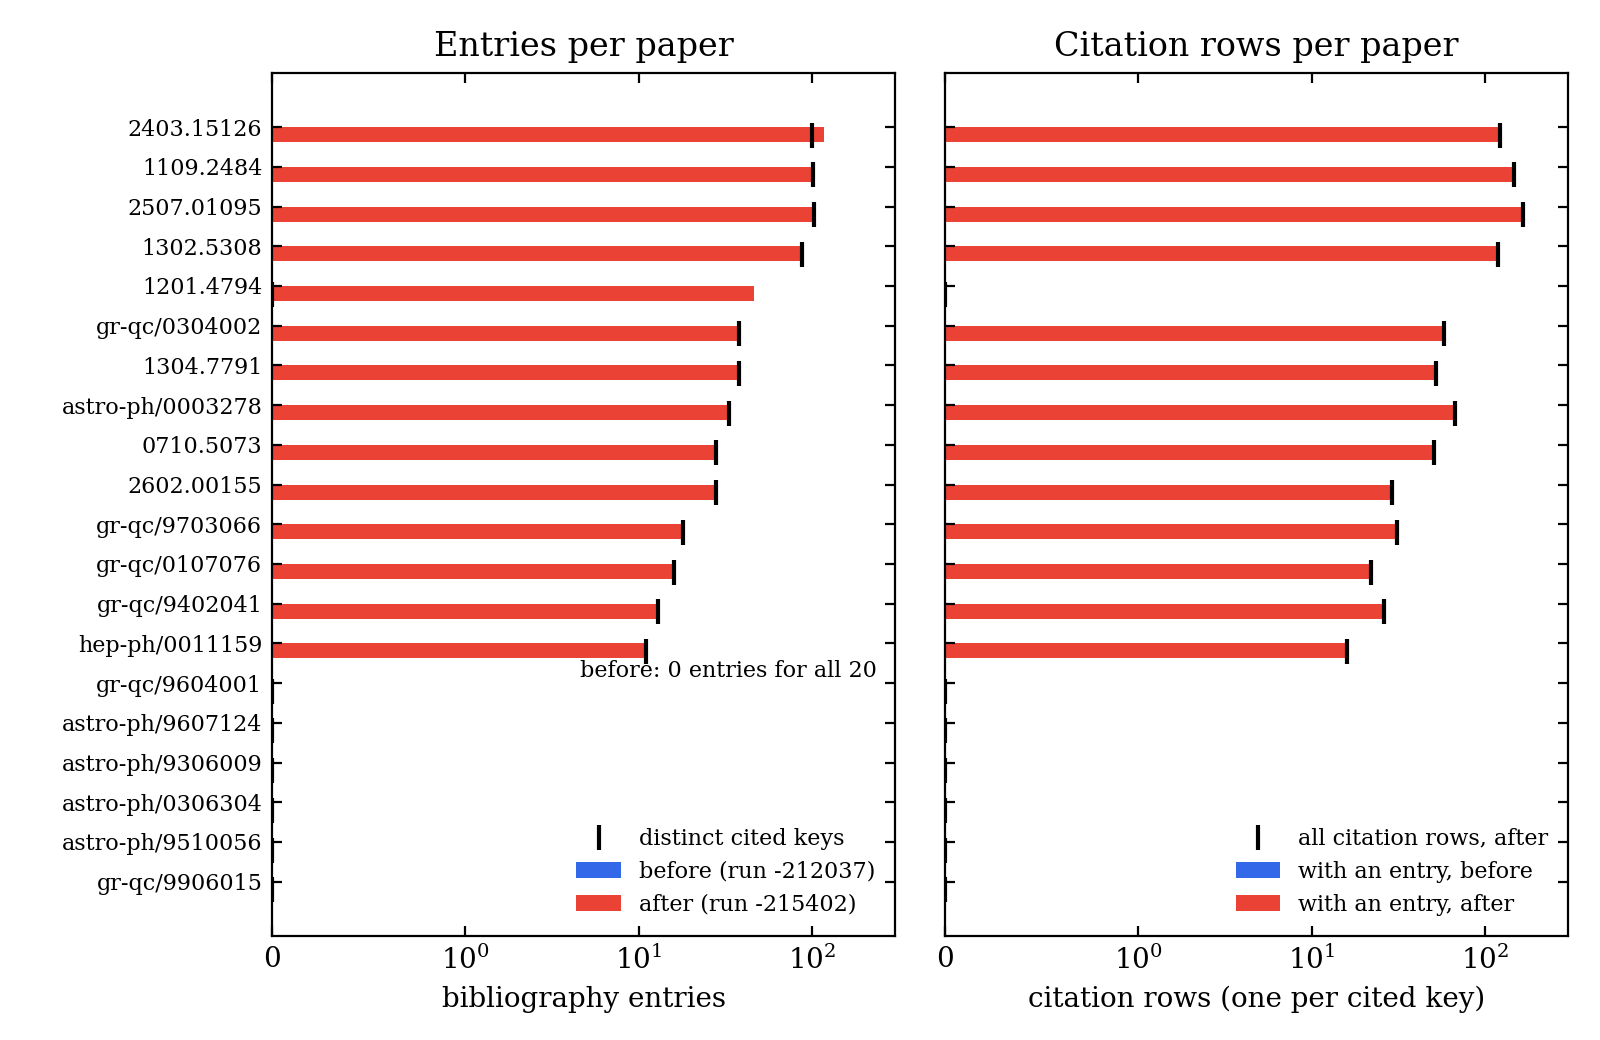
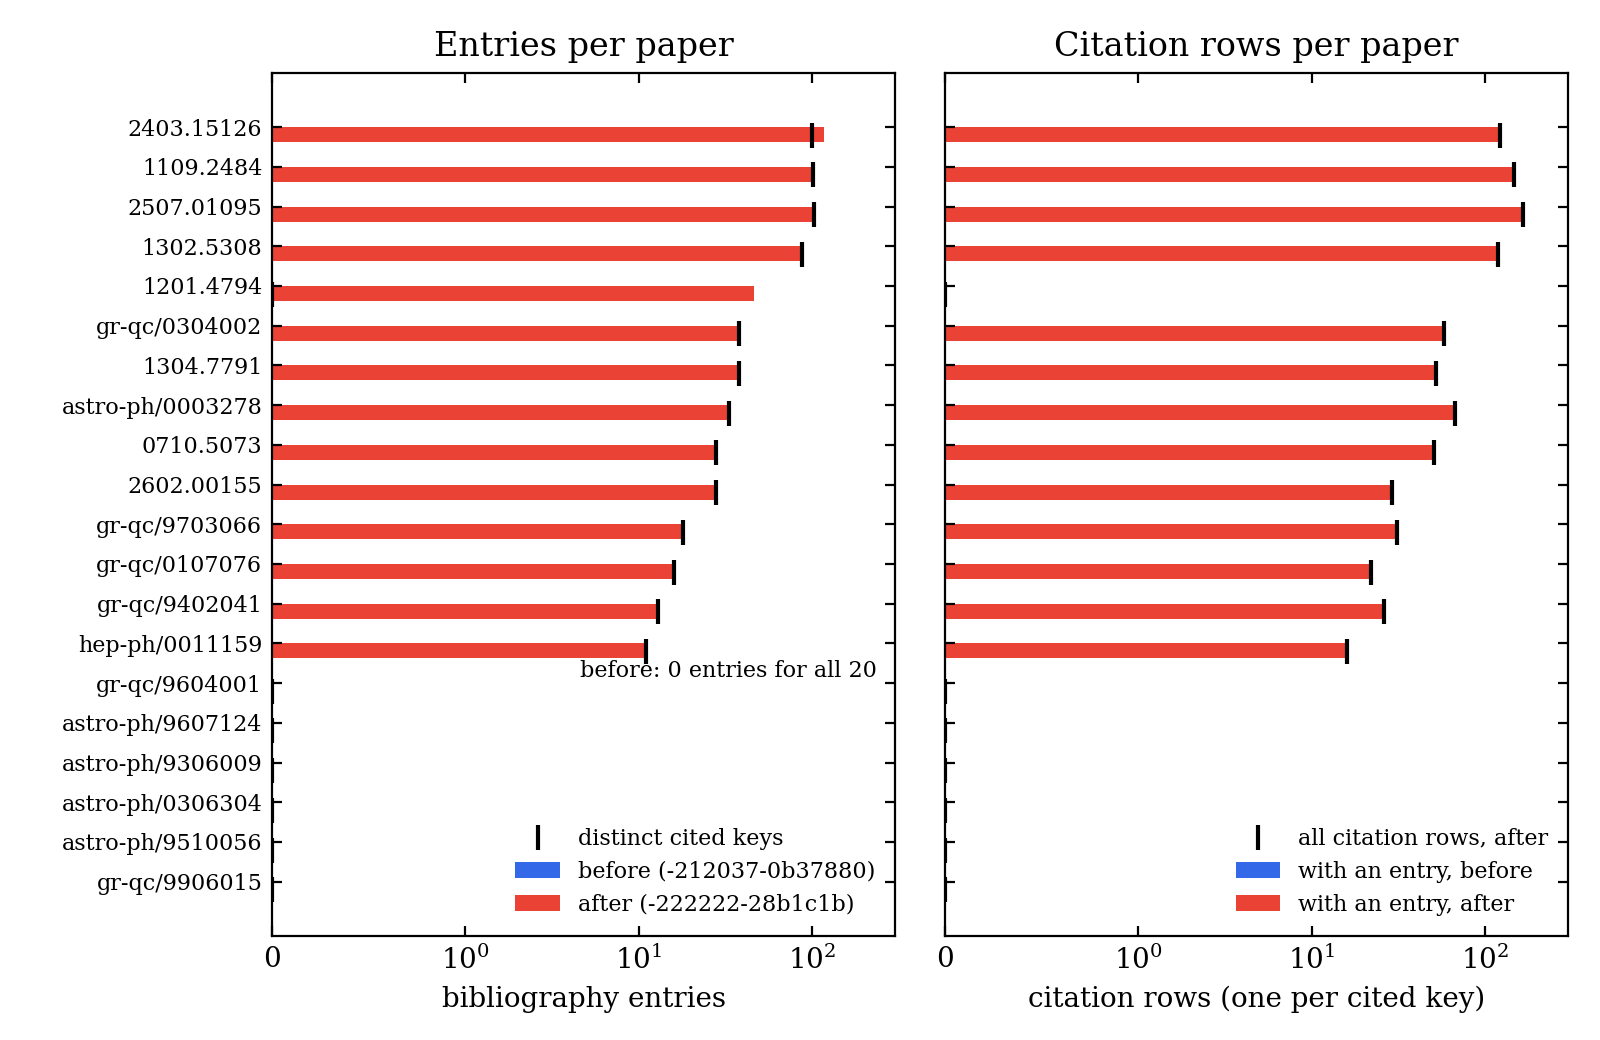
ingest3: outcome P11, final figures (run kb-20261121-222623-32b3c1e), README with the final state (720/745 ok, 96.64 %), the redo of 31 papers and the request on test_meta_papers

Changed region(s): [[0.3125, 0.8, 0.5312, 0.8923]]

diff --git a/tracks/kb/ingest3/README.md b/tracks/kb/ingest3/README.md
@@ -1,32 +1,33 @@
 # Package ingest3 (kb, wave 3 batch 6): bibliography formats, claim-safe re-ingest, additions
 
-Helper package of kb, 2026-11-21 (21:14-22:10 UTC). Brief: tracks/kb/PLAN-wave3.md round 1 as
-restated in the batch-6 task. Predictions and outcomes: `JOURNAL.md` (P1-P8). No card was used.
+Helper package of kb, 2026-11-21 (21:14-22:30 UTC). Brief: tracks/kb/PLAN-wave3.md round 1 as
+restated in the batch-6 task. Predictions and outcomes: `JOURNAL.md` (P1-P11). No card was used.
 Numbers below carry their run id; outputs are under `scratch/kb/<run_id>/`.
 
 ## What is here
 
 | Path | What |
 |---|---|
-| `ids/zero20.txt`, `ids/additions24.txt`, `ids/frontier11.txt` | the paper lists of the package |
+| `ids/zero20.txt`, `ids/additions24.txt`, `ids/frontier11.txt`, `ids/redo31.txt` | the paper lists of the package (redo31: papers the definition-skip and alias changes alter, from the all-paper dry run) |
 | `scripts/kbstate.py` | read-only counts per paper and over the database, and every claim touching the listed papers (`--tag`) |
 | `scripts/fig_before_after.py` | the two figures and `BEFORE_AFTER.tsv` from kbstate outputs |
+| `scripts/compare_dry.py` | a dry-run parse of every paper against the database rows: what a re-ingest would change |
 | `scripts/figstyle.py` | byte copy of harness/style/figstyle.py |
 | `BEFORE_AFTER.tsv` | per paper of the 20: status, source, entries, citation rows (all and with an entry), sections, equations, chunks, claim rows, before and after; then the 35 additions after |
 | `figures/fig_bib_before_after.png` | entries and citation rows per paper of the 20, before and after |
 | `figures/fig_parse_status.png` | parse-status counts and success rates at three states, with the 95 % bar |
 | `JOURNAL.md` | predictions P1-P8 and outcomes |
 
-Code (committed in kb/, commit 776288ad; tests in the full suite):
+Code (committed in kb/, commits 776288ad and d67628eb; tests in the full suite):
 
 | File | Change |
 |---|---|
-| `kb/kbtool/tex_structure.py` | `command_aliases`: macros that stand for `\bibitem` or `\cite`, found from their definitions (bare `\def\bi{\bibitem}`; a body passing argument k as the key: `\bib[1]{\bibitem{#1}}`, `\sortbibitem[2]{...\bibitem{#1} #2...}`, `\refto[1]{Ref.~\cite{#1}}`); `xparse_macros` reads `\NewDocumentCommand` with mandatory arguments (pandoc's `\citeproc`); citation commands through aliases; `references`, `thereferences`, `CSLReferences` start the bibliography region when they hold entries |
+| `kb/kbtool/tex_structure.py` | `command_aliases`: macros that stand for `\bibitem` or `\cite`, found from their definitions (bare `\def\bi{\bibitem}`; a body passing argument k as the key: `\bib[1]{\bibitem{#1}}`, `\sortbibitem[2]{...\bibitem{#1} #2...}`, `\refto[1]{Ref.~\cite{#1}}`); `xparse_macros` reads `\NewDocumentCommand` with mandatory arguments (pandoc's `\citeproc`); citation commands through aliases; `references`, `thereferences`, `CSLReferences` start the bibliography region when they hold entries; `scan_math` skips macro definitions written inside the document body (d67628eb: `\newcommand\be{\begin{equation}}` in the body had opened an equation inside its own definition) |
 | `kb/kbtool/bib_parse.py` | entries `\bibitem`, `\harvarditem[.]{authors}{year}{key}`, AASTeX `\reference` (keys `#1`, `#2`, ...); reference-list environments as above; alias expansion; a `.tex` the main file does not reach, used only when the paper cites and has no entry (`parse_json.bib_unreached_file`); cited keys and keys with an entry |
 | `kb/kbtool/papers_ingest.py` | review rule: a paper with `\cite`-family commands and no entry gets `parse_status` review, reason in `parse_json.review_reasons`; `store(..., remap_claims=True)` runs the remap in the paper's lock hold and transaction (build files restored on rollback) |
 | `kb/kbtool/claims_remap.py` (new) | after a re-ingest, each locator row of the paper gets its flat range from (file, line_start, line_end) through the new source map and its chunk ids from that range (as `claims_check.Store` resolves); the old range is kept only when the lines do not map and flat.tex is byte-identical; claims.chunk_id and the quote range follow the first resolved row (rule of `claims_db.upsert_seed`); a claim with a chunk in the paper and no row is carried through the old and new source maps; one `claim_events` row (action `remap`) per claim; labels and statuses untouched |
 | `kb/kbtool/papers_cli.py` | `kb ingest arxiv ... --remap-claims [--out DIR]` (report `remap.json`), `--dry-run --out DIR` (per-paper summaries, no database or build write) |
-| `kb/tests/test_bib_formats.py`, `kb/tests/test_claims_remap.py` (new) | 13 and 2 tests on synthetic snippets: each format, aliases, xparse, unreached file, review rule end to end, dry run; remap through a shifted flat.tex checked against an independent resolution, the identical-flat case, and the control that a plain re-ingest leaves a dangling chunk |
+| `kb/tests/test_bib_formats.py`, `kb/tests/test_claims_remap.py` (new) | 14 and 2 tests on synthetic snippets: each format, aliases, xparse, unreached file, review rule end to end, dry run; remap through a shifted flat.tex checked against an independent resolution, the identical-flat case, and the control that a plain re-ingest leaves a dangling chunk |
 
 Also `kb/manifests/arxiv_additions.tsv`: 35 rows (commits 02c76737, 070308fa) and the message
 `tracks/kb/outbox/20261121T220221Z__to-orch__additions-wave3.md`.
@@ -61,7 +62,11 @@ Every command above ran under `harness/bin/nrpic-run submit --package tracks/kb/
 | 5 ingest of the 24 | kb-20261121-214253-c459325, kb-20261121-214344-a576394 | 24 ok, all with entries; vectors check 0/0/0; 734 papers, ok 708 (96.46 %) |
 | 6 frontier 11 | kb-20261121-215209-964397e, kb-20261121-215402-46415c8 | 11 sources and metadata ok; 11 ingested ok; 745 papers |
 | 7 QA | kb-20261121-215613-421a104 | 745 of 745 manifest ids ingested; ok 719, review 23, pdf 3: recorded rate 96.51 %, strict ("ok, cites, no entry" a failure) 96.51 %, with pdf 96.91 %; golden questions (32): hybrid paper 28/32 (87.5 %), location 23/32 (71.9 %); rerank 28/32 and 25/32; text 27/32 and 21/32 (unchanged); 67821 entries, 109207 citation rows, 14704 in corpus |
-| 8 figures | kb-20261121-220205-1dbcd51 | `figures/`, `BEFORE_AFTER.tsv` (looked at) |
+| 8 figures (first) | kb-20261121-220205-1dbcd51 | superseded by the final figures below |
+| all-paper dry run | kb-20261121-220637-9f109de | 33 of 725 papers not re-ingested today would change: 14 gain cited keys (citation macros), 3 gain entries (`\bibitem` aliases), 13 lose 1-3 equation rows each (27 rows, every one macro-definition text, which had taken numbers 1-3 and shifted the later numbers); none loses entries or sections (the 3 PDF-only papers are not handled by `kb ingest arxiv`, an artefact of the comparison) |
+| redo of 31 | kb-20261121-221427-6d5b50d, kb-20261121-221440-2fd53d7 | 30 papers above and astro-ph/0003278 re-ingested with --remap-claims: equal to the dry run for all 31; astro-ph/0003278 review -> ok (13 sections, 33 equations, 33 entries); claims 407, 606, 607 remapped, `kb claim check` "same 3"; 0 dangling; vectors 0/0/0 |
+| final QA and state | kb-20261121-222222-28b1c1b | 745 papers: ok 720, review 22, pdf 3; recorded rate 96.64 %, strict 96.64 %, with pdf 97.05 %; golden hybrid paper 28/32 (87.5 %), location 23/32 (71.9 %); rerank 28/32, 25/32; text 27/32, 21/32; 67865 entries, 109730 citation rows, 14810 in corpus; 0 dangling chunk references |
+| final figures | kb-20261121-222623-32b3c1e | `figures/`, `BEFORE_AFTER.tsv` (both PNGs looked at) |
 
 The database is updated (kb.sqlite); no snapshot was taken (the lead takes it). Readers on
 `db/current` still see kb-20261119-a782f1e until then.
@@ -75,6 +80,7 @@ The database is updated (kb.sqlite); no snapshot was taken (the lead takes it). 
 - P7: the explicit `kb resolve-bib` after the QA changed nothing: `kb ingest arxiv` already ends
   with the corpus resolution.
 - P8: 12, not 14, papers cite (two have entries but no `\cite`).
+- P9 held only narrowly: 33 of 725 other papers change (4.6 % against my 5 % bound).
 
 ## Open items
 
@@ -82,8 +88,8 @@ The database is updated (kb.sqlite); no snapshot was taken (the lead takes it). 
    astro-ph/9510056, astro-ph/9607124, gr-qc/9604001, gr-qc/9906015): "References" headings with
    `\item`, `\ref`, `\refh` paragraphs and no `\cite`; plain-TeX `\eqno` numbers and `{\bf I. ...}`
    headings. Status review; not done in this package (optional in the brief).
-2. astro-ph/0003278: 33 entries now, but 0 sections and 0 citation rows although the source has
-   `\section` and `\cite`; a structure defect beyond the bibliography, not investigated.
+2. Done after all: astro-ph/0003278 (definitions in the body made the whole body math); fixed
+   (d67628eb) and re-ingested with the 30 other papers the change alters.
 3. The QA report (qa_*.py, not this package's code) states no rate against the 95 % bar; the
    rates are above and in fig_parse_status.
 4. Claims of the `served:` kind (658-662) are not reached by `kb claim check`; their remap was
@@ -94,7 +100,11 @@ The database is updated (kb.sqlite); no snapshot was taken (the lead takes it). 
 
 ## Requests
 
-- kb lead: take the snapshot; carry the six old-style papers and astro-ph/0003278 into a later
-  package (items 1-2); add the parse rate against the bar to `kb qa run` (item 3, qa_report.py).
+- kb lead: `kb/tests/test_meta_papers.py::test_additions_file_is_valid` hard-codes the additions
+  (`len(rows) == 26`, `684 + 26`, `710`); with the 35 rows of this package it fails. Change to 61,
+  `684 + 61` and 745 (that file is outside this package's files, so I did not edit it). Every other
+  test of the kb suite passes.
+- kb lead: take the snapshot; carry the six old-style papers into a later package (item 1); add the
+  parse rate against the bar to `kb qa run` (item 3, qa_report.py).
 - orch: information message on the 35 additions (outbox 20261121T220221Z__to-orch__additions-wave3.md);
   a reply only if a group should change.

diff --git a/tracks/kb/ingest3/JOURNAL.md b/tracks/kb/ingest3/JOURNAL.md
@@ -317,3 +317,19 @@ QA: ok 720 of 745 (96.64 %, the same with the strict definition); golden hits wi
 of the first QA run (hybrid paper 28/32, location 23/32). Figures: the final state replaces "after
 35 additions" (745 papers, 720 ok); fig_bib_before_after shows astro-ph/0003278 with 33 cited keys
 and 33 citation-row keys with entries. Refuted by other counts or a hybrid paper hit rate below 27/32.
+
+## Outcome P11 (runs kb-20261121-222222-28b1c1b QA and final state, kb-20261121-222623-32b3c1e figures; QA_REPORT.md and both PNGs read)
+
+Held. QA: 745 of 745 ingested, 25 not ok (pdf 3, review 22): ok 720, rate 96.64 % recorded and
+strict, 97.05 % with pdf; golden hybrid paper 28/32, location 23/32; text 27/32, 21/32; rerank
+28/32, 25/32 (unchanged from the first QA run). 67865 entries, 109730 citation rows, 14810 in the
+corpus. Figures redrawn on the final state; astro-ph/0003278 now shows its 33 cited keys and its
+citation rows with entries. (The first figure run, kb-20261121-222607-c7bf84d, carried a stale
+run label in the legend; superseded by -222623-32b3c1e.)
+
+## Where this session stopped (2026-11-21 22:28 UTC)
+
+All steps 1-8 done, plus the definition-skip fix and the re-ingest of the 31 papers it changes.
+Not done: the six old-style reference lists and plain-TeX headings (optional), the snapshot (lead).
+One test of the kb suite fails since the additions: tests/test_meta_papers.py hard-codes 26 rows
+(request to the lead in README.md).
